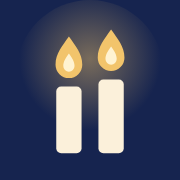
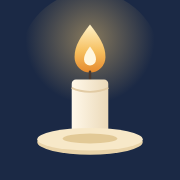
홈 시안3: 촛불 앱 아이콘, 알림·내 정보·메뉴 버튼, 흰 화살표 오른쪽, 큰 상자, 점 없앰
Claude-Session: https://claude.ai/code/session_0132g5UJm8uz5i24szpe95AM

Changed region(s): [[0.1944, 0.0, 0.8056, 0.8611]]

diff --git a/app.html b/app.html
@@ -28,8 +28,8 @@ button { cursor: pointer; -webkit-tap-highlight-color: transparent; }
 /* top bar */
 .topbar { position: sticky; top: env(safe-area-inset-top, 0px); z-index: 5; background: var(--bg); padding-block: 14px 12px; margin-inline: -16px; padding-inline: 16px; display: flex; align-items: center; justify-content: space-between; gap: 8px; }
 .brand { min-width: 0; display: flex; align-items: center; gap: 9px; background: none; border: 0; padding: 0; text-align: left; }
-.brand .mark { flex: none; width: 36px; height: 36px; border-radius: 10px; background: radial-gradient(110% 100% at 100% 0%, var(--navy-2), var(--navy) 70%); display: grid; place-items: center; box-shadow: 0 3px 10px rgba(23, 32, 74, .25); }
-.brand .mark svg { width: 22px; height: 22px; }
+.brand .mark { flex: none; width: 38px; height: 38px; border-radius: 10px; background: #1B2945; display: grid; place-items: center; box-shadow: 0 3px 10px rgba(23, 32, 74, .25); }
+.brand .mark svg { width: 34px; height: 34px; }
 .brand-txt { min-width: 0; display: flex; flex-direction: column; line-height: 1.25; }
 .not-home .brand-sub { display: none; }
 @font-face { font-family: "MaruBuri"; font-weight: 300; font-display: swap; src: url("fonts/MaruBuri-Light.woff2") format("woff2"); }
@@ -765,8 +765,8 @@ button.cal-row b { color: var(--gold); }
 .icon-btn.avatar svg { width: 32px; height: 32px; }
 body.is-home { background: transparent; }
 body.is-home::before { content: ""; position: fixed; inset: 0; z-index: -1; background: #F4EDE6 url("home-bg.jpg") center / cover no-repeat; }
-.hwel2 { position: relative; padding: 34px 0 40px; text-align: center; }
-.hwel2 p { margin: 0; font-family: var(--font-serif); font-weight: 300; font-size: 15px; line-height: 2.45; color: #3A4258; letter-spacing: .05em; }
+.hwel2 { position: relative; padding: 22px 0 28px; text-align: center; }
+.hwel2 p { margin: 0; font-family: var(--font-serif); font-weight: 300; font-size: 15px; line-height: 2.3; color: #3A4258; letter-spacing: .05em; }
 .hwel2 .sun { font-style: normal; font-weight: 400; font-size: 1.6em; line-height: 1; color: #C0504A; vertical-align: -.06em; }
 .hwel-side { position: absolute; right: -6px; top: 37%; border-left: 1px solid #6E6A72; padding-left: 7px; font-size: 7.5px; line-height: 1.75; letter-spacing: .06em; color: #4D4A55; text-align: left; }
 .hstrip3 { display: flex; align-items: center; gap: 12px; width: 100%; text-align: left; border: 1px solid rgba(255, 255, 255, .7); border-radius: 999px; padding: 10px 18px 10px 24px; background: rgba(255, 255, 255, .38); -webkit-backdrop-filter: blur(10px); backdrop-filter: blur(10px); box-shadow: 0 6px 20px rgba(120, 90, 70, .1); color: var(--ink); }
@@ -776,18 +776,19 @@ body.is-home::before { content: ""; position: fixed; inset: 0; z-index: -1; back
 .hs-sub { display: block; margin-top: 2px; font-size: 12.5px; color: #8A8790; white-space: nowrap; overflow: hidden; text-overflow: ellipsis; }
 .hstrip3 .hs-go { color: #3A3A44; padding: 0; }
 .hb2 { display: grid; grid-template-columns: minmax(0, 1fr) minmax(0, 1fr); gap: 11px; margin-top: 14px; }
-.hb2-c { position: relative; aspect-ratio: 361 / 350; border: 0; border-radius: 3px; padding: 22% 9% 0; text-align: left; background: #F2E6DA center / cover no-repeat; color: #1F2A44; display: flex; flex-direction: column; align-items: flex-start; box-shadow: 0 2px 10px rgba(120, 90, 70, .08); }
+.hb2-c { position: relative; aspect-ratio: 361 / 395; border: 0; border-radius: 4px; padding: 26% 9% 0; text-align: left; background: #F2E6DA center / cover no-repeat; color: #1F2A44; display: flex; flex-direction: column; align-items: flex-start; box-shadow: 0 2px 10px rgba(120, 90, 70, .08); }
 .hb2-c.p1 { background-image: url("home-pray.jpg"); }
 .hb2-c.p2 { background-image: url("home-mine.jpg"); }
-.hb2-t { font-family: var(--font-display); font-weight: 500; font-size: 21px; letter-spacing: -.02em; line-height: 1.2; }
+.hb2-t { font-family: var(--font-display); font-weight: 500; font-size: 23px; letter-spacing: -.02em; line-height: 1.2; }
 .hb2-dash { display: block; width: 18px; height: 1px; background: currentColor; margin: 11px 0 10px; opacity: .8; }
 .hb2-d { font-size: 12.5px; line-height: 1.65; color: #4A4650; letter-spacing: -.02em; }
-.hb2-go { display: grid; place-items: center; width: 34px; height: 34px; border-radius: 50%; border: 1.3px solid currentColor; margin-top: auto; margin-bottom: 10%; }
+.hb2-go { position: absolute; right: 14px; bottom: 14px; display: grid; place-items: center; width: 36px; height: 36px; border-radius: 50%; border: 1.3px solid rgba(255, 255, 255, .95); color: #FFFFFF; background: rgba(40, 40, 50, .14); box-shadow: 0 2px 8px rgba(60, 40, 30, .15); }
 .hb2-go svg { width: 18px; height: 18px; }
-.hb2-c.p2 .hb2-go { color: #C0605A; }
-.hbn { display: flex; align-items: center; justify-content: space-between; width: 100%; margin-top: 10px; aspect-ratio: 741 / 150; border: 0; border-radius: 3px; padding: 0 5% 0 4.5%; background: #8FA9C2 url("home-rooms.jpg") center / cover no-repeat; color: #1F2A44; box-shadow: 0 2px 10px rgba(60, 80, 110, .1); }
-.hbn-t { font-family: var(--font-display); font-weight: 500; font-size: 18px; letter-spacing: -.01em; }
-.hbn .hb2-go { margin: 0; color: #FFFFFF; border-color: rgba(255, 255, 255, .9); }
+
+.hbn { display: flex; align-items: center; justify-content: space-between; width: 100%; margin-top: 11px; aspect-ratio: 741 / 205; border: 0; border-radius: 4px; padding: 0 5% 0 4.5%; background: #8FA9C2 url("home-rooms.jpg") center / cover no-repeat; color: #1F2A44; box-shadow: 0 2px 10px rgba(60, 80, 110, .1); }
+.hbn-t { font-family: var(--font-display); font-weight: 500; font-size: 20px; letter-spacing: -.01em; }
+.hbn { position: relative; }
+.hbn .hb2-go { top: 50%; bottom: auto; right: 5%; margin-top: -18px; }
 .htk2 { margin-top: 14px; }
 .htk2-head { display: flex; align-items: center; justify-content: space-between; margin-bottom: 6px; }
 .htk2-head h2 { margin: 0; font-family: var(--font-display); font-size: 16px; font-weight: 700; color: #1F2A44; letter-spacing: -.02em; }
@@ -795,7 +796,7 @@ body.is-home::before { content: ""; position: fixed; inset: 0; z-index: -1; back
 .htk2-c { flex: 0 0 60%; scroll-snap-align: start; text-align: left; border: 1px solid rgba(255, 255, 255, .95); border-radius: 20px; padding: 9px 14px 8px; background: rgba(255, 255, 255, .78); box-shadow: 0 4px 14px rgba(120, 90, 70, .08); color: var(--ink); }
 .htk2-t { display: flex; align-items: center; gap: 7px; font-size: 13px; font-weight: 700; white-space: nowrap; overflow: hidden; text-overflow: ellipsis; }
 .htk2-t i { flex: none; width: 8px; height: 8px; border-radius: 50%; }
-.htk2-m { display: flex; flex-wrap: nowrap; gap: 6px; margin-top: 2px; padding-left: 15px; font-size: 10.5px; color: #8A8790; white-space: nowrap; overflow: hidden; }
+.htk2-m { display: flex; flex-wrap: nowrap; gap: 6px; margin-top: 2px; padding-left: 0; font-size: 10.5px; color: #8A8790; white-space: nowrap; overflow: hidden; }
 .htk2-m .cnt { display: inline-flex; align-items: center; gap: 2px; color: #D0862A; font-weight: 700; }
 .htk2-m .cnt svg { width: 11px; height: 11px; }
 .htk2-empty { padding: 14px 16px; border-radius: 22px; background: rgba(255, 255, 255, .7); font-size: 13px; color: var(--muted); }
@@ -828,11 +829,11 @@ body.is-home::before { content: ""; position: fixed; inset: 0; z-index: -1; back
 <div class="app">
   <header class="topbar">
     <button class="nav-back" id="navBack" data-act="nav-back" aria-label="이전으로" hidden><svg viewBox="0 0 24 24" fill="none" stroke="currentColor" stroke-width="2.4" stroke-linecap="round" stroke-linejoin="round"><path d="M15 5l-7 7 7 7"/></svg></button>
-    <button class="brand" data-tab="home" aria-label="홈으로"><span class="mark" aria-hidden="true"><svg viewBox="0 0 24 24"><path fill="#F2C46B" d="M8.4 2.6c1.4 1.9 2.8 3.4 2.8 5.6a2.8 2.8 0 0 1-5.6 0c0-2.2 1.4-3.7 2.8-5.6z"/><rect x="6.5" y="12.2" width="3.8" height="9" rx=".9" fill="#FBF0DA"/><path fill="#F2C46B" d="M15.6 1.8c1.4 1.9 2.8 3.4 2.8 5.6a2.8 2.8 0 0 1-5.6 0c0-2.2 1.4-3.7 2.8-5.6z"/><rect x="13.7" y="11.4" width="3.8" height="9.8" rx=".9" fill="#FBF0DA"/></svg></span><span class="brand-txt"><span class="brand-name">합력하여 <span class="sun">선</span>을 이루는 기도</span><small class="brand-sub">얼굴을 몰라도, 서로를 위해 기도하는 곳</small></span></button>
+    <button class="brand" data-tab="home" aria-label="홈으로"><span class="mark" aria-hidden="true"><svg viewBox="0 0 512 512"><defs><radialGradient id="cg" cx="50%" cy="34%" r="46%"><stop offset="0" stop-color="#F6CB74" stop-opacity=".5"/><stop offset="1" stop-color="#F6CB74" stop-opacity="0"/></radialGradient><linearGradient id="cf" x1="0" y1="0" x2="0" y2="1"><stop offset="0" stop-color="#FFF1C7"/><stop offset=".55" stop-color="#F6C060"/><stop offset="1" stop-color="#E58A2E"/></linearGradient><linearGradient id="cb" x1="0" y1="0" x2="1" y2="0"><stop offset="0" stop-color="#FFF8EA"/><stop offset="1" stop-color="#EBD9B8"/></linearGradient></defs><circle cx="256" cy="176" r="200" fill="url(#cg)"/><path d="M256 70c26 34 44 60 44 92a44 44 0 0 1-88 0c0-32 18-58 44-92z" fill="url(#cf)"/><path d="M256 132c10 14 17 24 17 37a17 17 0 0 1-34 0c0-13 7-23 17-37z" fill="#FFF6DE"/><path d="M256 204v22" stroke="#4A3A30" stroke-width="7" stroke-linecap="round"/><rect x="204" y="226" width="104" height="168" rx="12" fill="url(#cb)"/><path d="M204 250c16 8 34 11 52 11s36-3 52-11" fill="none" stroke="#E2CBA4" stroke-width="5"/><ellipse cx="256" cy="404" rx="150" ry="36" fill="#E9D3A8"/><ellipse cx="256" cy="396" rx="150" ry="32" fill="#F7E8C8"/><ellipse cx="256" cy="394" rx="78" ry="14" fill="#E2C996"/></svg></span><span class="brand-txt"><span class="brand-name">합력하여 <span class="sun">선</span>을 이루는 기도</span><small class="brand-sub">얼굴을 몰라도, 서로를 위해 기도하는 곳</small></span></button>
     <div class="top-actions">
-      <button class="icon-btn" data-act="menu-search" aria-label="검색"><svg viewBox="0 0 24 24" fill="none" stroke="currentColor" stroke-width="1.7" stroke-linecap="round"><circle cx="10.8" cy="10.8" r="6.3"/><path d="M15.5 15.5 20 20"/></svg></button>
       <button class="icon-btn bell" data-act="notices" aria-label="공지사항"><svg viewBox="0 0 24 24" fill="none" stroke="currentColor" stroke-width="1.7" stroke-linecap="round" stroke-linejoin="round"><path d="M6 16V11a6 6 0 0 1 12 0v5l1.5 2h-15z"/><path d="M10 20.5a2 2 0 0 0 4 0"/></svg><i class="ndot" id="bellDot" hidden></i></button>
-      <button class="icon-btn avatar" data-act="menu" aria-label="전체 메뉴와 내 정보"><svg viewBox="0 0 32 32" aria-hidden="true"><circle cx="16" cy="16" r="16" fill="#D8D8DC"/><circle cx="16" cy="12.6" r="5.4" fill="#FFFFFF"/><path d="M6.4 26.6c1.6-4.6 5.2-7 9.6-7s8 2.4 9.6 7A15.9 15.9 0 0 1 16 32a15.9 15.9 0 0 1-9.6-5.4z" fill="#FFFFFF"/></svg></button>
+      <button class="icon-btn" data-tab="me" aria-label="내 정보"><svg viewBox="0 0 24 24" fill="none" stroke="currentColor" stroke-width="1.7" stroke-linecap="round"><circle cx="12" cy="8" r="5.5"/><path d="M4.5 21c.8-4 3.8-6 7.5-6s6.7 2 7.5 6"/></svg></button>
+      <button class="icon-btn" data-act="menu" aria-label="전체 메뉴"><svg viewBox="0 0 24 24" fill="none" stroke="currentColor" stroke-width="2" stroke-linecap="round"><path d="M4 6.5h16M4 12h16M4 17.5h16"/></svg></button>
     </div>
   </header>
   <main id="view" class="stack"></main>
@@ -1259,12 +1260,11 @@ body.is-home::before { content: ""; position: fixed; inset: 0; z-index: -1; back
       homeTicker();
   }
   // 중보기도 제목이 몇 초마다 옆으로 넘어가요. 손가락으로 밀어서 넘겨도 돼요.
-  var TK_DOTS = ['#E2857C', '#B79AD9', '#74BE98', '#E6B067', '#82A7D6'];
   function homeTicker() {
     var list = urgentFirst(board('pray')).slice(0, 8);
     return '<section class="htk2"><div class="htk2-head"><h2>지금, 함께 기도하고 있어요</h2><button class="more" data-go="pray">모두 보기</button></div>' +
       (list.length ? '<div class="htk-track" id="htk">' + list.map(function (p, i) {
-        return '<button class="htk2-c" data-open="' + p.id + '"><span class="htk2-t"><i style="background:' + TK_DOTS[i % TK_DOTS.length] + '"></i>' + esc(p.title) + '</span><span class="htk2-m"><span>' + esc(p.author) + '</span><span>' + ago(p.created) + '</span>' + countSpan(p) + '<span>댓글 ' + p.comments.length + '</span></span></button>';
+        return '<button class="htk2-c" data-open="' + p.id + '"><span class="htk2-t">' + esc(p.title) + '</span><span class="htk2-m"><span>' + esc(p.author) + '</span><span>' + ago(p.created) + '</span>' + countSpan(p) + '<span>댓글 ' + p.comments.length + '</span></span></button>';
       }).join('') + '</div>' : '<div class="htk2-empty">첫 기도 제목을 올려 주세요. 함께 기도할게요.</div>') + '</section>';
   }
   // 홈 아이콘 줄: 수채화 얼룩 위에 가는 선 그림
@@ -3190,7 +3190,6 @@ body.is-home::before { content: ""; position: fixed; inset: 0; z-index: -1; back
     }
     switch (d.act) {
       case 'menu': return openDrawer();
-      case 'menu-search': openDrawer(); if (el('dq')) el('dq').focus(); return;
       case 'widget': return widgetSheet();
       case 'fold-answered': showAnswered = !showAnswered; render(); return;
       case 'calendar': calM = ''; calSel = ''; return calendarSheet();

diff --git a/index.html b/index.html
@@ -34,8 +34,8 @@ button { cursor: pointer; -webkit-tap-highlight-color: transparent; }
 /* top bar */
 .topbar { position: sticky; top: env(safe-area-inset-top, 0px); z-index: 5; background: var(--bg); padding-block: 14px 12px; margin-inline: -16px; padding-inline: 16px; display: flex; align-items: center; justify-content: space-between; gap: 8px; }
 .brand { min-width: 0; display: flex; align-items: center; gap: 9px; background: none; border: 0; padding: 0; text-align: left; }
-.brand .mark { flex: none; width: 36px; height: 36px; border-radius: 10px; background: radial-gradient(110% 100% at 100% 0%, var(--navy-2), var(--navy) 70%); display: grid; place-items: center; box-shadow: 0 3px 10px rgba(23, 32, 74, .25); }
-.brand .mark svg { width: 22px; height: 22px; }
+.brand .mark { flex: none; width: 38px; height: 38px; border-radius: 10px; background: #1B2945; display: grid; place-items: center; box-shadow: 0 3px 10px rgba(23, 32, 74, .25); }
+.brand .mark svg { width: 34px; height: 34px; }
 .brand-txt { min-width: 0; display: flex; flex-direction: column; line-height: 1.25; }
 .not-home .brand-sub { display: none; }
 @font-face { font-family: "MaruBuri"; font-weight: 300; font-display: swap; src: url("fonts/MaruBuri-Light.woff2") format("woff2"); }
@@ -771,8 +771,8 @@ button.cal-row b { color: var(--gold); }
 .icon-btn.avatar svg { width: 32px; height: 32px; }
 body.is-home { background: transparent; }
 body.is-home::before { content: ""; position: fixed; inset: 0; z-index: -1; background: #F4EDE6 url("home-bg.jpg") center / cover no-repeat; }
-.hwel2 { position: relative; padding: 34px 0 40px; text-align: center; }
-.hwel2 p { margin: 0; font-family: var(--font-serif); font-weight: 300; font-size: 15px; line-height: 2.45; color: #3A4258; letter-spacing: .05em; }
+.hwel2 { position: relative; padding: 22px 0 28px; text-align: center; }
+.hwel2 p { margin: 0; font-family: var(--font-serif); font-weight: 300; font-size: 15px; line-height: 2.3; color: #3A4258; letter-spacing: .05em; }
 .hwel2 .sun { font-style: normal; font-weight: 400; font-size: 1.6em; line-height: 1; color: #C0504A; vertical-align: -.06em; }
 .hwel-side { position: absolute; right: -6px; top: 37%; border-left: 1px solid #6E6A72; padding-left: 7px; font-size: 7.5px; line-height: 1.75; letter-spacing: .06em; color: #4D4A55; text-align: left; }
 .hstrip3 { display: flex; align-items: center; gap: 12px; width: 100%; text-align: left; border: 1px solid rgba(255, 255, 255, .7); border-radius: 999px; padding: 10px 18px 10px 24px; background: rgba(255, 255, 255, .38); -webkit-backdrop-filter: blur(10px); backdrop-filter: blur(10px); box-shadow: 0 6px 20px rgba(120, 90, 70, .1); color: var(--ink); }
@@ -782,18 +782,19 @@ body.is-home::before { content: ""; position: fixed; inset: 0; z-index: -1; back
 .hs-sub { display: block; margin-top: 2px; font-size: 12.5px; color: #8A8790; white-space: nowrap; overflow: hidden; text-overflow: ellipsis; }
 .hstrip3 .hs-go { color: #3A3A44; padding: 0; }
 .hb2 { display: grid; grid-template-columns: minmax(0, 1fr) minmax(0, 1fr); gap: 11px; margin-top: 14px; }
-.hb2-c { position: relative; aspect-ratio: 361 / 350; border: 0; border-radius: 3px; padding: 22% 9% 0; text-align: left; background: #F2E6DA center / cover no-repeat; color: #1F2A44; display: flex; flex-direction: column; align-items: flex-start; box-shadow: 0 2px 10px rgba(120, 90, 70, .08); }
+.hb2-c { position: relative; aspect-ratio: 361 / 395; border: 0; border-radius: 4px; padding: 26% 9% 0; text-align: left; background: #F2E6DA center / cover no-repeat; color: #1F2A44; display: flex; flex-direction: column; align-items: flex-start; box-shadow: 0 2px 10px rgba(120, 90, 70, .08); }
 .hb2-c.p1 { background-image: url("home-pray.jpg"); }
 .hb2-c.p2 { background-image: url("home-mine.jpg"); }
-.hb2-t { font-family: var(--font-display); font-weight: 500; font-size: 21px; letter-spacing: -.02em; line-height: 1.2; }
+.hb2-t { font-family: var(--font-display); font-weight: 500; font-size: 23px; letter-spacing: -.02em; line-height: 1.2; }
 .hb2-dash { display: block; width: 18px; height: 1px; background: currentColor; margin: 11px 0 10px; opacity: .8; }
 .hb2-d { font-size: 12.5px; line-height: 1.65; color: #4A4650; letter-spacing: -.02em; }
-.hb2-go { display: grid; place-items: center; width: 34px; height: 34px; border-radius: 50%; border: 1.3px solid currentColor; margin-top: auto; margin-bottom: 10%; }
+.hb2-go { position: absolute; right: 14px; bottom: 14px; display: grid; place-items: center; width: 36px; height: 36px; border-radius: 50%; border: 1.3px solid rgba(255, 255, 255, .95); color: #FFFFFF; background: rgba(40, 40, 50, .14); box-shadow: 0 2px 8px rgba(60, 40, 30, .15); }
 .hb2-go svg { width: 18px; height: 18px; }
-.hb2-c.p2 .hb2-go { color: #C0605A; }
-.hbn { display: flex; align-items: center; justify-content: space-between; width: 100%; margin-top: 10px; aspect-ratio: 741 / 150; border: 0; border-radius: 3px; padding: 0 5% 0 4.5%; background: #8FA9C2 url("home-rooms.jpg") center / cover no-repeat; color: #1F2A44; box-shadow: 0 2px 10px rgba(60, 80, 110, .1); }
-.hbn-t { font-family: var(--font-display); font-weight: 500; font-size: 18px; letter-spacing: -.01em; }
-.hbn .hb2-go { margin: 0; color: #FFFFFF; border-color: rgba(255, 255, 255, .9); }
+
+.hbn { display: flex; align-items: center; justify-content: space-between; width: 100%; margin-top: 11px; aspect-ratio: 741 / 205; border: 0; border-radius: 4px; padding: 0 5% 0 4.5%; background: #8FA9C2 url("home-rooms.jpg") center / cover no-repeat; color: #1F2A44; box-shadow: 0 2px 10px rgba(60, 80, 110, .1); }
+.hbn-t { font-family: var(--font-display); font-weight: 500; font-size: 20px; letter-spacing: -.01em; }
+.hbn { position: relative; }
+.hbn .hb2-go { top: 50%; bottom: auto; right: 5%; margin-top: -18px; }
 .htk2 { margin-top: 14px; }
 .htk2-head { display: flex; align-items: center; justify-content: space-between; margin-bottom: 6px; }
 .htk2-head h2 { margin: 0; font-family: var(--font-display); font-size: 16px; font-weight: 700; color: #1F2A44; letter-spacing: -.02em; }
@@ -801,7 +802,7 @@ body.is-home::before { content: ""; position: fixed; inset: 0; z-index: -1; back
 .htk2-c { flex: 0 0 60%; scroll-snap-align: start; text-align: left; border: 1px solid rgba(255, 255, 255, .95); border-radius: 20px; padding: 9px 14px 8px; background: rgba(255, 255, 255, .78); box-shadow: 0 4px 14px rgba(120, 90, 70, .08); color: var(--ink); }
 .htk2-t { display: flex; align-items: center; gap: 7px; font-size: 13px; font-weight: 700; white-space: nowrap; overflow: hidden; text-overflow: ellipsis; }
 .htk2-t i { flex: none; width: 8px; height: 8px; border-radius: 50%; }
-.htk2-m { display: flex; flex-wrap: nowrap; gap: 6px; margin-top: 2px; padding-left: 15px; font-size: 10.5px; color: #8A8790; white-space: nowrap; overflow: hidden; }
+.htk2-m { display: flex; flex-wrap: nowrap; gap: 6px; margin-top: 2px; padding-left: 0; font-size: 10.5px; color: #8A8790; white-space: nowrap; overflow: hidden; }
 .htk2-m .cnt { display: inline-flex; align-items: center; gap: 2px; color: #D0862A; font-weight: 700; }
 .htk2-m .cnt svg { width: 11px; height: 11px; }
 .htk2-empty { padding: 14px 16px; border-radius: 22px; background: rgba(255, 255, 255, .7); font-size: 13px; color: var(--muted); }
@@ -834,11 +835,11 @@ body.is-home::before { content: ""; position: fixed; inset: 0; z-index: -1; back
 <div class="app">
   <header class="topbar">
     <button class="nav-back" id="navBack" data-act="nav-back" aria-label="이전으로" hidden><svg viewBox="0 0 24 24" fill="none" stroke="currentColor" stroke-width="2.4" stroke-linecap="round" stroke-linejoin="round"><path d="M15 5l-7 7 7 7"/></svg></button>
-    <button class="brand" data-tab="home" aria-label="홈으로"><span class="mark" aria-hidden="true"><svg viewBox="0 0 24 24"><path fill="#F2C46B" d="M8.4 2.6c1.4 1.9 2.8 3.4 2.8 5.6a2.8 2.8 0 0 1-5.6 0c0-2.2 1.4-3.7 2.8-5.6z"/><rect x="6.5" y="12.2" width="3.8" height="9" rx=".9" fill="#FBF0DA"/><path fill="#F2C46B" d="M15.6 1.8c1.4 1.9 2.8 3.4 2.8 5.6a2.8 2.8 0 0 1-5.6 0c0-2.2 1.4-3.7 2.8-5.6z"/><rect x="13.7" y="11.4" width="3.8" height="9.8" rx=".9" fill="#FBF0DA"/></svg></span><span class="brand-txt"><span class="brand-name">합력하여 <span class="sun">선</span>을 이루는 기도</span><small class="brand-sub">얼굴을 몰라도, 서로를 위해 기도하는 곳</small></span></button>
+    <button class="brand" data-tab="home" aria-label="홈으로"><span class="mark" aria-hidden="true"><svg viewBox="0 0 512 512"><defs><radialGradient id="cg" cx="50%" cy="34%" r="46%"><stop offset="0" stop-color="#F6CB74" stop-opacity=".5"/><stop offset="1" stop-color="#F6CB74" stop-opacity="0"/></radialGradient><linearGradient id="cf" x1="0" y1="0" x2="0" y2="1"><stop offset="0" stop-color="#FFF1C7"/><stop offset=".55" stop-color="#F6C060"/><stop offset="1" stop-color="#E58A2E"/></linearGradient><linearGradient id="cb" x1="0" y1="0" x2="1" y2="0"><stop offset="0" stop-color="#FFF8EA"/><stop offset="1" stop-color="#EBD9B8"/></linearGradient></defs><circle cx="256" cy="176" r="200" fill="url(#cg)"/><path d="M256 70c26 34 44 60 44 92a44 44 0 0 1-88 0c0-32 18-58 44-92z" fill="url(#cf)"/><path d="M256 132c10 14 17 24 17 37a17 17 0 0 1-34 0c0-13 7-23 17-37z" fill="#FFF6DE"/><path d="M256 204v22" stroke="#4A3A30" stroke-width="7" stroke-linecap="round"/><rect x="204" y="226" width="104" height="168" rx="12" fill="url(#cb)"/><path d="M204 250c16 8 34 11 52 11s36-3 52-11" fill="none" stroke="#E2CBA4" stroke-width="5"/><ellipse cx="256" cy="404" rx="150" ry="36" fill="#E9D3A8"/><ellipse cx="256" cy="396" rx="150" ry="32" fill="#F7E8C8"/><ellipse cx="256" cy="394" rx="78" ry="14" fill="#E2C996"/></svg></span><span class="brand-txt"><span class="brand-name">합력하여 <span class="sun">선</span>을 이루는 기도</span><small class="brand-sub">얼굴을 몰라도, 서로를 위해 기도하는 곳</small></span></button>
     <div class="top-actions">
-      <button class="icon-btn" data-act="menu-search" aria-label="검색"><svg viewBox="0 0 24 24" fill="none" stroke="currentColor" stroke-width="1.7" stroke-linecap="round"><circle cx="10.8" cy="10.8" r="6.3"/><path d="M15.5 15.5 20 20"/></svg></button>
       <button class="icon-btn bell" data-act="notices" aria-label="공지사항"><svg viewBox="0 0 24 24" fill="none" stroke="currentColor" stroke-width="1.7" stroke-linecap="round" stroke-linejoin="round"><path d="M6 16V11a6 6 0 0 1 12 0v5l1.5 2h-15z"/><path d="M10 20.5a2 2 0 0 0 4 0"/></svg><i class="ndot" id="bellDot" hidden></i></button>
-      <button class="icon-btn avatar" data-act="menu" aria-label="전체 메뉴와 내 정보"><svg viewBox="0 0 32 32" aria-hidden="true"><circle cx="16" cy="16" r="16" fill="#D8D8DC"/><circle cx="16" cy="12.6" r="5.4" fill="#FFFFFF"/><path d="M6.4 26.6c1.6-4.6 5.2-7 9.6-7s8 2.4 9.6 7A15.9 15.9 0 0 1 16 32a15.9 15.9 0 0 1-9.6-5.4z" fill="#FFFFFF"/></svg></button>
+      <button class="icon-btn" data-tab="me" aria-label="내 정보"><svg viewBox="0 0 24 24" fill="none" stroke="currentColor" stroke-width="1.7" stroke-linecap="round"><circle cx="12" cy="8" r="5.5"/><path d="M4.5 21c.8-4 3.8-6 7.5-6s6.7 2 7.5 6"/></svg></button>
+      <button class="icon-btn" data-act="menu" aria-label="전체 메뉴"><svg viewBox="0 0 24 24" fill="none" stroke="currentColor" stroke-width="2" stroke-linecap="round"><path d="M4 6.5h16M4 12h16M4 17.5h16"/></svg></button>
     </div>
   </header>
   <main id="view" class="stack"></main>
@@ -1265,12 +1266,11 @@ body.is-home::before { content: ""; position: fixed; inset: 0; z-index: -1; back
       homeTicker();
   }
   // 중보기도 제목이 몇 초마다 옆으로 넘어가요. 손가락으로 밀어서 넘겨도 돼요.
-  var TK_DOTS = ['#E2857C', '#B79AD9', '#74BE98', '#E6B067', '#82A7D6'];
   function homeTicker() {
     var list = urgentFirst(board('pray')).slice(0, 8);
     return '<section class="htk2"><div class="htk2-head"><h2>지금, 함께 기도하고 있어요</h2><button class="more" data-go="pray">모두 보기</button></div>' +
       (list.length ? '<div class="htk-track" id="htk">' + list.map(function (p, i) {
-        return '<button class="htk2-c" data-open="' + p.id + '"><span class="htk2-t"><i style="background:' + TK_DOTS[i % TK_DOTS.length] + '"></i>' + esc(p.title) + '</span><span class="htk2-m"><span>' + esc(p.author) + '</span><span>' + ago(p.created) + '</span>' + countSpan(p) + '<span>댓글 ' + p.comments.length + '</span></span></button>';
+        return '<button class="htk2-c" data-open="' + p.id + '"><span class="htk2-t">' + esc(p.title) + '</span><span class="htk2-m"><span>' + esc(p.author) + '</span><span>' + ago(p.created) + '</span>' + countSpan(p) + '<span>댓글 ' + p.comments.length + '</span></span></button>';
       }).join('') + '</div>' : '<div class="htk2-empty">첫 기도 제목을 올려 주세요. 함께 기도할게요.</div>') + '</section>';
   }
   // 홈 아이콘 줄: 수채화 얼룩 위에 가는 선 그림
@@ -3196,7 +3196,6 @@ body.is-home::before { content: ""; position: fixed; inset: 0; z-index: -1; back
     }
     switch (d.act) {
       case 'menu': return openDrawer();
-      case 'menu-search': openDrawer(); if (el('dq')) el('dq').focus(); return;
       case 'widget': return widgetSheet();
       case 'fold-answered': showAnswered = !showAnswered; render(); return;
       case 'calendar': calM = ''; calSel = ''; return calendarSheet();

diff --git a/sw.js b/sw.js
@@ -1,5 +1,5 @@
 // 오프라인에서도 열리도록 기본 파일을 저장해 둡니다.
-const CACHE = 'prayer-together-v11';
+const CACHE = 'prayer-together-v12';
 const FILES = ['./', './index.html', './manifest.json', './icon.svg', './icon-192.png', './apple-touch-icon.png', './hero.jpg', './water.jpg', './home-bg.jpg', './home-pray.jpg', './home-mine.jpg', './home-rooms.jpg', './fonts/MaruBuri-Light.woff2', './fonts/MaruBuri-Regular.woff2', './fonts/MaruBuri-Bold.woff2', './config.js', './vendor/supabase.js'];
 self.addEventListener('install', e => e.waitUntil(caches.open(CACHE).then(c => c.addAll(FILES))));
 self.addEventListener('activate', e => e.waitUntil(caches.keys().then(ks => Promise.all(ks.filter(k => k !== CACHE).map(k => caches.delete(k))))));
